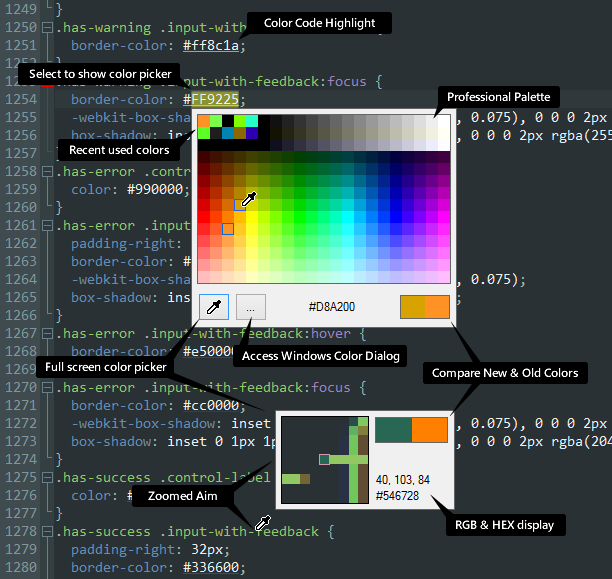
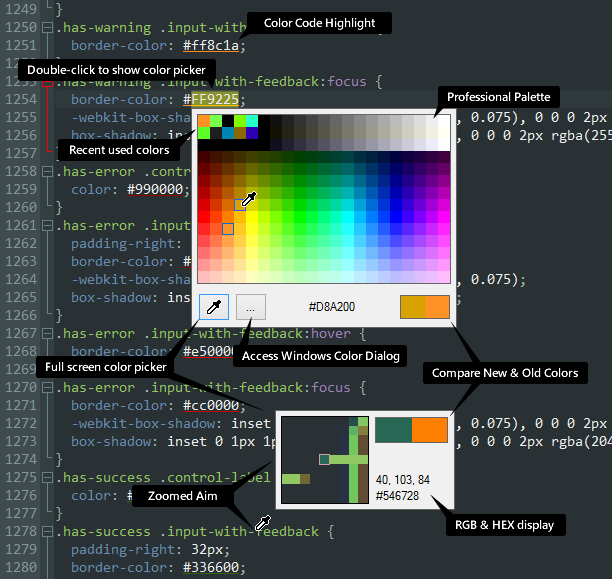
* removed select to show popup, changed to double-click

Changed region(s): [[0.031, 0.0933, 0.3725, 0.1554]]

diff --git a/NppQCP.cpp b/NppQCP.cpp
@@ -11,8 +11,10 @@
 #include <time.h>
 #include <shlwapi.h>
 #include <commctrl.h>
+#include <winver.h>
 
 #pragma comment(lib, "comctl32.lib")
+#pragma comment(lib, "version.lib")
 
 // The data of Notepad++ that you can use in your plugin commands
 // extern variables - don't change the name
@@ -40,9 +42,6 @@ bool _is_color_picker_shown = false;
 bool _rgb_selected = false;
 int _rgb_start = -1;
 int _rgb_end = -1;
-
-int _last_select_start = -1;
-int _last_select_end = -1;
 
 
 // color code highlight /////////////////////////////////////
@@ -126,12 +125,37 @@ void InitCommandMenu() {
     //            );
 
 	setCommand(0, L"Enable Quick Color Picker", ToggleQCP, NULL, _enable_qcp);
-
 	setCommand(1, L"---", NULL, NULL, false);
 
+	// get version
+	WCHAR fileName[_MAX_PATH];
+	DWORD size = GetModuleFileName(_instance, fileName, _MAX_PATH);
+	fileName[size] = NULL;
+	DWORD handle = 0;
+	size = GetFileVersionInfoSize(fileName, &handle);
+	BYTE* versionInfo = new BYTE[size];
+	wchar_t version[50];
+
+	if (!GetFileVersionInfo(fileName, handle, size, versionInfo)) {
+		delete[] versionInfo;
+		lstrcpy(version, L"Unknown");
+	}
+
+	UINT    			len = 0;
+	VS_FIXEDFILEINFO*   vsfi = NULL;
+	VerQueryValue(versionInfo, L"\\", (void**)&vsfi, &len);
+	wsprintf(version, L"%d.%d.%d.%d",
+		HIWORD(vsfi->dwFileVersionMS),
+		LOWORD(vsfi->dwFileVersionMS),
+		HIWORD(vsfi->dwFileVersionLS),
+		LOWORD(vsfi->dwFileVersionLS)
+	);
+	delete[] versionInfo;
+
+	// create visit website link
 	wchar_t text[200] = L"Visit Website ";
 	wcscat(text, L" (Version ");
-	wcscat(text, NPP_PLUGIN_VER);
+	wcscat(text, version);
 	wcscat(text, L")");
 	setCommand(2, text, VisitWebsite, NULL, FALSE);
 
@@ -330,12 +354,9 @@ bool ShowColorPicker(){
 	int selection_start = ::SendMessage(h_scintilla, SCI_GETSELECTIONSTART, 0, 0);
 	int selection_end = ::SendMessage(h_scintilla, SCI_GETSELECTIONEND, 0, 0);
 
-	// if this selection hasn't changed
-	if(_last_select_start == selection_start && _last_select_start == selection_end)
+	// nothing selected
+	if(selection_start==selection_end)
 		return false;
-
-	_last_select_start = selection_start;
-	_last_select_start = selection_end;
 
 	_rgb_selected = false;
 	bool result = CheckForHexColor(h_scintilla, selection_start, selection_end);
@@ -500,16 +521,16 @@ void HideColorPicker() {
 }
 
 
-void ToggleColorPicker(){
+bool HasSelection(){
 
-	if (!_pColorPicker)
-		CreateColorPicker();
+	HWND h_scintilla = GetScintilla();
+	int selection_start = ::SendMessage(h_scintilla, SCI_GETSELECTIONSTART, 0, 0);
+	int selection_end = ::SendMessage(h_scintilla, SCI_GETSELECTIONEND, 0, 0);
 
-	if (!_pColorPicker->IsVisible()) {
-		ShowColorPicker();
-	} else {
-		HideColorPicker();
-	}
+	if(selection_start==selection_end)
+		return false;
+
+	return true;
 
 }
 

diff --git a/DllMain.cpp b/DllMain.cpp
@@ -61,8 +61,14 @@ extern "C" __declspec(dllexport) void beNotified(SCNotification *notifyCode) {
 				HighlightColorCode();
 			}
 			if (notifyCode->updated & SC_UPDATE_SELECTION ) {
-				ToggleColorPicker();
+				if (!HasSelection())
+					HideColorPicker();
 			}
+			break;
+		}
+		case SCN_DOUBLECLICK:
+		{
+			ShowColorPicker();
 			break;
 		}
 		case SCN_ZOOM:

diff --git a/NppQCP.h b/NppQCP.h
@@ -42,7 +42,7 @@ void CreateColorPicker();
 
 bool ShowColorPicker();
 void HideColorPicker();
-void ToggleColorPicker();
+bool HasSelection();
 
 bool CheckForHexColor(const HWND h_scintilla, const int start, const int end);
 bool CheckForRgbColor(const HWND h_scintilla, const int start, const int end);
